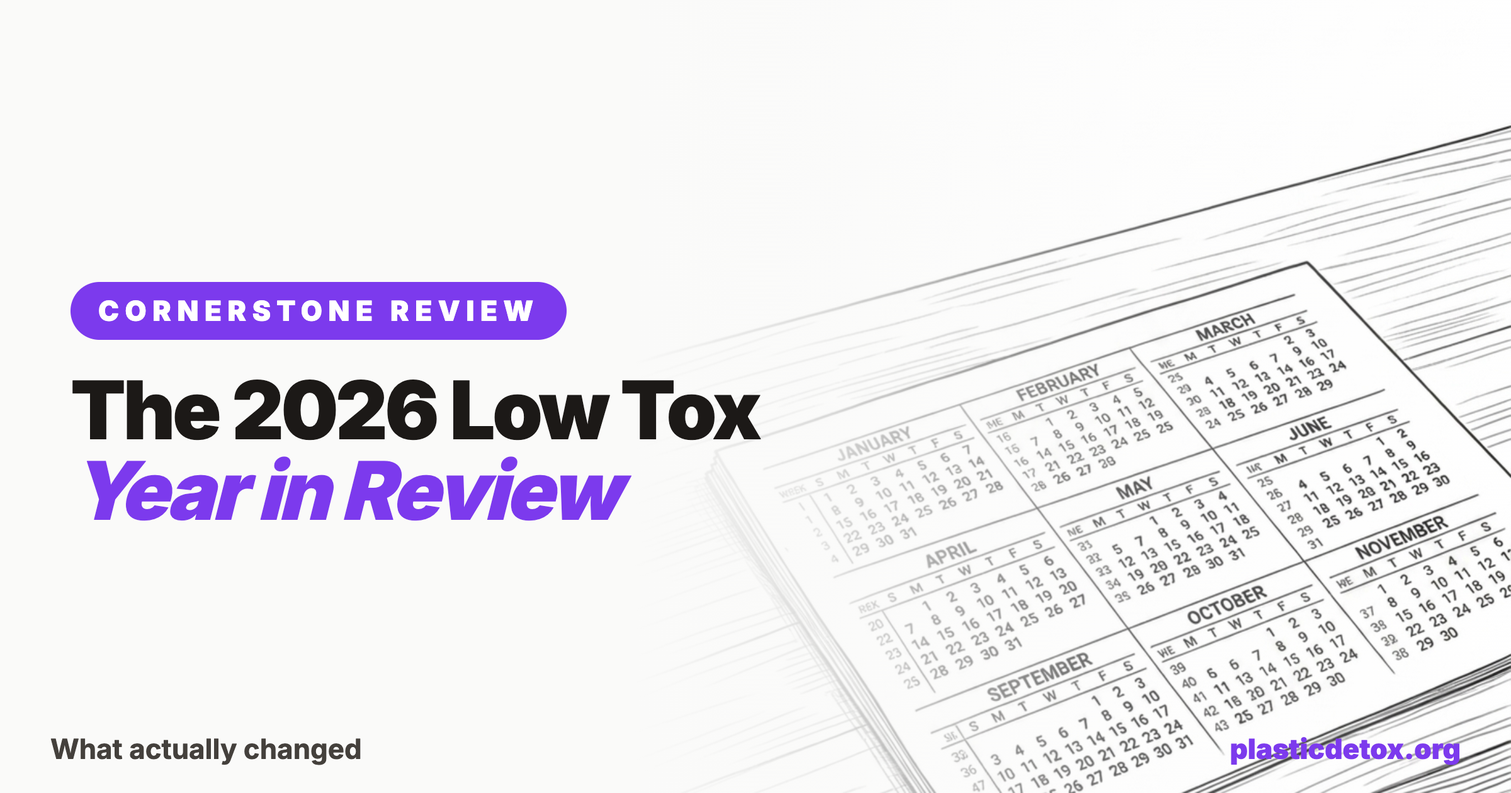
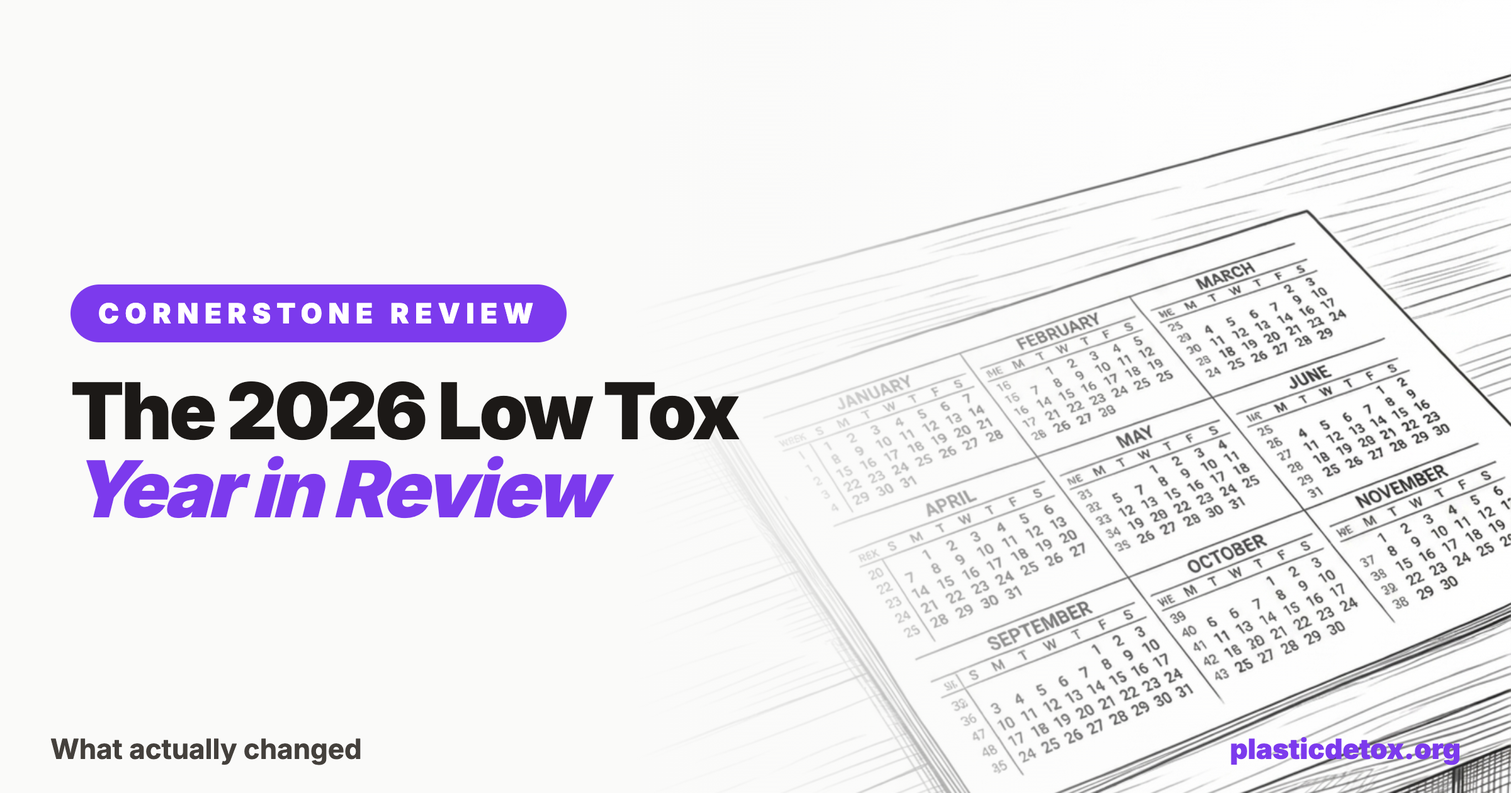
Make all article link previews follow the social-card rule
- Build 7 missing/incorrect 1200x630 social cards (not-all-plastic, closet-101,
  food-pesticides-101, news-and-research, top-100-baby-kids, free-ways, getting-started)
- Repoint og:image/twitter:image off tall pins and square homepage images
- Add missing og:image:width/height to three how-to articles
- Add og:image block to top-100 (had none)
- Normalize year-in-review card to exact 1200x630
- Bump dateModified on edited articles

diff --git a/images/build-social-cards.js b/images/build-social-cards.js
@@ -1,0 +1,64 @@
+const puppeteer = require('puppeteer');
+const fs = require('fs');
+const { execSync } = require('child_process');
+
+const cards = [
+  { slug: '2026-year-in-review', bg: '2026-year-in-review.png',
+    tag: 'Cornerstone Review', l1: 'The 2026 Low Tox', l2: 'Year in Review', stat: 'What actually changed' },
+  { slug: 'free-ways-to-reduce-plastic-exposure', bg: 'free-ways-to-reduce-plastic-exposure.png',
+    tag: 'Free Habits Guide', l1: 'Cut Your Plastic', l2: 'Exposure for Free', stat: 'No spending required' },
+  { slug: 'getting-started-checklist', bg: 'homepage-gettingstarted.png',
+    tag: 'Getting Started', l1: '10 First Plastic', l2: 'Swaps That Matter', stat: 'The getting started checklist' },
+  { slug: 'not-all-plastic-is-the-same', bg: 'not-all-plastic-is-the-same-raw.png',
+    tag: 'Cornerstone Explainer', l1: 'Not All Plastic', l2: 'Is the Same', stat: "What's worth worrying about" },
+  { slug: 'closet-101', bg: 'homepage-closet.png',
+    tag: 'Closet 101', l1: 'Plastic Free', l2: 'Clothing & Laundry', stat: 'The complete guide' },
+  { slug: 'food-pesticides-101', bg: 'homepage-food.png',
+    tag: 'Food & Pesticides', l1: 'The Cleaner', l2: 'Eating Guide', stat: 'What to buy and skip' },
+  { slug: 'news-and-research', bg: 'homepage-myths.png',
+    tag: 'News & Research', l1: 'What the Studies', l2: 'Actually Say', stat: 'The latest microplastic science' },
+  { slug: 'top-100-baby-kids-products-amazon', bg: 'registry.png',
+    tag: 'Baby & Kids', l1: 'Top 100 Baby &', l2: 'Kids Products', stat: 'Ranked and reviewed' },
+];
+
+const html = (c) => `<!DOCTYPE html><html lang="en"><head><meta charset="UTF-8">
+<meta name="robots" content="noindex,nofollow"><title>${c.slug} social card</title>
+<link rel="preconnect" href="https://fonts.googleapis.com">
+<link rel="preconnect" href="https://fonts.gstatic.com" crossorigin>
+<link href="https://fonts.googleapis.com/css2?family=Inter:wght@400;500;600;700;800;900&display=swap" rel="stylesheet">
+<style>
+*{margin:0;padding:0;box-sizing:border-box;}
+body{background:#d6d3d1;display:flex;justify-content:center;padding:2rem;font-family:'Inter',-apple-system,BlinkMacSystemFont,sans-serif;}
+.card{width:1200px;height:630px;position:relative;overflow:hidden;background:#fafaf9;}
+.bg{position:absolute;top:0;right:0;width:58%;height:100%;background-image:url('${c.bg}');background-size:cover;background-position:center;}
+.veil{position:absolute;inset:0;background:linear-gradient(to right,rgba(250,250,249,1) 0%,rgba(250,250,249,1) 42%,rgba(250,250,249,0.85) 55%,rgba(250,250,249,0.35) 75%,rgba(250,250,249,0.10) 100%);}
+.content{position:absolute;top:0;left:0;bottom:0;width:720px;padding:56px 56px 40px;display:flex;flex-direction:column;justify-content:center;z-index:2;}
+.tag{display:inline-block;align-self:flex-start;font-size:22px;font-weight:900;text-transform:uppercase;letter-spacing:0.22em;color:#fff;background:#7c3aed;padding:10px 22px;border-radius:100px;margin-bottom:24px;white-space:nowrap;}
+h1{font-size:62px;font-weight:900;color:#1c1917;line-height:1.0;letter-spacing:-0.035em;}
+h1 .accent{color:#7c3aed;font-style:italic;}
+.footer{position:absolute;bottom:0;left:0;right:0;display:flex;align-items:center;justify-content:space-between;padding:22px 40px;z-index:3;}
+.footer-stat{font-size:22px;font-weight:700;color:#44403c;}
+.footer-url{font-size:22px;font-weight:900;color:#7c3aed;}
+</style></head><body>
+<div class="card">
+<div class="bg"></div><div class="veil"></div>
+<div class="content"><div class="tag">${c.tag}</div><h1>${c.l1}<br><span class="accent">${c.l2}</span></h1></div>
+<div class="footer"><span class="footer-stat">${c.stat}</span><span class="footer-url">plasticdetox.org</span></div>
+</div></body></html>`;
+
+(async () => {
+  const browser = await puppeteer.launch();
+  for (const c of cards) {
+    const htmlPath = `${c.slug}-social.html`;
+    fs.writeFileSync(htmlPath, html(c));
+    const page = await browser.newPage();
+    await page.setViewport({ width: 1264, height: 694, deviceScaleFactor: 2 });
+    await page.goto('file://' + process.cwd() + '/' + htmlPath, { waitUntil: 'networkidle0' });
+    const card = await page.$('.card');
+    await card.screenshot({ path: `${c.slug}-social.png` });
+    await page.close();
+    execSync(`cwebp -q 88 -resize 1200 630 ${c.slug}-social.png -o ${c.slug}-social.webp`);
+    console.log('built', c.slug);
+  }
+  await browser.close();
+})();

diff --git a/articles/not-all-plastic-is-the-same.html b/articles/not-all-plastic-is-the-same.html
@@ -13,7 +13,7 @@
   <meta property="og:title" content="Not All Plastic Is the Same: A Calibrated Guide to What's Actually Worth Worrying About (2026)">
   <meta property="og:description" content="The hierarchy of plastic risk, by resin code and use case. Where the evidence is strongest, where the marketing claims fall apart, and what to swap first.">
   <meta property="og:url" content="https://plasticdetox.org/articles/not-all-plastic-is-the-same.html">
-  <meta property="og:image" content="https://plasticdetox.org/images/not-all-plastic-is-the-same-article-hero.webp">
+  <meta property="og:image" content="https://plasticdetox.org/images/not-all-plastic-is-the-same-social.webp">
   <meta property="og:image:width" content="1200">
   <meta property="og:image:height" content="630">
   <meta property="og:site_name" content="Plastic Detox">
@@ -21,11 +21,11 @@
   <meta name="twitter:card" content="summary_large_image">
   <meta name="twitter:title" content="Not All Plastic Is the Same: A Calibrated Guide to What's Actually Worth Worrying About (2026)">
   <meta name="twitter:description" content="The hierarchy of plastic risk, by resin code and use case. Where the evidence is strongest and what to swap first.">
-  <meta name="twitter:image" content="https://plasticdetox.org/images/not-all-plastic-is-the-same-article-hero.webp">
+  <meta name="twitter:image" content="https://plasticdetox.org/images/not-all-plastic-is-the-same-social.webp">
 
   <meta name="pin:description" content="Not All Plastic Is the Same. The seven resin codes ranked by actual risk, plus the BPA free trap, the phthalate problem, and the swaps that matter most.">
   <meta name="pin:url" content="https://plasticdetox.org/articles/not-all-plastic-is-the-same.html">
-  <meta name="pin:media" content="https://plasticdetox.org/images/not-all-plastic-is-the-same-article-hero.webp">
+  <meta name="pin:media" content="https://plasticdetox.org/images/not-all-plastic-is-the-same-social.webp">
 
   <script type="application/ld+json">
   {
@@ -36,9 +36,9 @@
     "author": { "@type": "Organization", "name": "Plastic Detox Editorial Team", "url": "https://plasticdetox.org/about.html" },
     "publisher": { "@type": "Organization", "name": "Plastic Detox", "url": "https://plasticdetox.org" },
     "datePublished": "2026-05-17",
-    "dateModified": "2026-05-18",
+    "dateModified": "2026-06-06",
     "lastReviewed": "2026-05-18",
-    "image": "https://plasticdetox.org/images/not-all-plastic-is-the-same-article-hero.webp",
+    "image": "https://plasticdetox.org/images/not-all-plastic-is-the-same-social.webp",
     "mainEntityOfPage": "https://plasticdetox.org/articles/not-all-plastic-is-the-same.html"
   }
   </script>

diff --git a/images/free-ways-to-reduce-plastic-exposure-social.html b/images/free-ways-to-reduce-plastic-exposure-social.html
@@ -1,5 +1,5 @@
 <!DOCTYPE html><html lang="en"><head><meta charset="UTF-8">
-<meta name="robots" content="noindex,nofollow"><title>2026-year-in-review social card</title>
+<meta name="robots" content="noindex,nofollow"><title>free-ways-to-reduce-plastic-exposure social card</title>
 <link rel="preconnect" href="https://fonts.googleapis.com">
 <link rel="preconnect" href="https://fonts.gstatic.com" crossorigin>
 <link href="https://fonts.googleapis.com/css2?family=Inter:wght@400;500;600;700;800;900&display=swap" rel="stylesheet">
@@ -7,7 +7,7 @@
 *{margin:0;padding:0;box-sizing:border-box;}
 body{background:#d6d3d1;display:flex;justify-content:center;padding:2rem;font-family:'Inter',-apple-system,BlinkMacSystemFont,sans-serif;}
 .card{width:1200px;height:630px;position:relative;overflow:hidden;background:#fafaf9;}
-.bg{position:absolute;top:0;right:0;width:58%;height:100%;background-image:url('2026-year-in-review.png');background-size:cover;background-position:center;}
+.bg{position:absolute;top:0;right:0;width:58%;height:100%;background-image:url('free-ways-to-reduce-plastic-exposure.png');background-size:cover;background-position:center;}
 .veil{position:absolute;inset:0;background:linear-gradient(to right,rgba(250,250,249,1) 0%,rgba(250,250,249,1) 42%,rgba(250,250,249,0.85) 55%,rgba(250,250,249,0.35) 75%,rgba(250,250,249,0.10) 100%);}
 .content{position:absolute;top:0;left:0;bottom:0;width:720px;padding:56px 56px 40px;display:flex;flex-direction:column;justify-content:center;z-index:2;}
 .tag{display:inline-block;align-self:flex-start;font-size:22px;font-weight:900;text-transform:uppercase;letter-spacing:0.22em;color:#fff;background:#7c3aed;padding:10px 22px;border-radius:100px;margin-bottom:24px;white-space:nowrap;}
@@ -19,6 +19,6 @@ h1 .accent{color:#7c3aed;font-style:italic;}
 </style></head><body>
 <div class="card">
 <div class="bg"></div><div class="veil"></div>
-<div class="content"><div class="tag">Cornerstone Review</div><h1>The 2026 Low Tox<br><span class="accent">Year in Review</span></h1></div>
-<div class="footer"><span class="footer-stat">What actually changed</span><span class="footer-url">plasticdetox.org</span></div>
+<div class="content"><div class="tag">Free Habits Guide</div><h1>Cut Your Plastic<br><span class="accent">Exposure for Free</span></h1></div>
+<div class="footer"><span class="footer-stat">No spending required</span><span class="footer-url">plasticdetox.org</span></div>
 </div></body></html>

diff --git a/images/not-all-plastic-is-the-same-social.html b/images/not-all-plastic-is-the-same-social.html
@@ -1,5 +1,5 @@
 <!DOCTYPE html><html lang="en"><head><meta charset="UTF-8">
-<meta name="robots" content="noindex,nofollow"><title>2026-year-in-review social card</title>
+<meta name="robots" content="noindex,nofollow"><title>not-all-plastic-is-the-same social card</title>
 <link rel="preconnect" href="https://fonts.googleapis.com">
 <link rel="preconnect" href="https://fonts.gstatic.com" crossorigin>
 <link href="https://fonts.googleapis.com/css2?family=Inter:wght@400;500;600;700;800;900&display=swap" rel="stylesheet">
@@ -7,7 +7,7 @@
 *{margin:0;padding:0;box-sizing:border-box;}
 body{background:#d6d3d1;display:flex;justify-content:center;padding:2rem;font-family:'Inter',-apple-system,BlinkMacSystemFont,sans-serif;}
 .card{width:1200px;height:630px;position:relative;overflow:hidden;background:#fafaf9;}
-.bg{position:absolute;top:0;right:0;width:58%;height:100%;background-image:url('2026-year-in-review.png');background-size:cover;background-position:center;}
+.bg{position:absolute;top:0;right:0;width:58%;height:100%;background-image:url('not-all-plastic-is-the-same-raw.png');background-size:cover;background-position:center;}
 .veil{position:absolute;inset:0;background:linear-gradient(to right,rgba(250,250,249,1) 0%,rgba(250,250,249,1) 42%,rgba(250,250,249,0.85) 55%,rgba(250,250,249,0.35) 75%,rgba(250,250,249,0.10) 100%);}
 .content{position:absolute;top:0;left:0;bottom:0;width:720px;padding:56px 56px 40px;display:flex;flex-direction:column;justify-content:center;z-index:2;}
 .tag{display:inline-block;align-self:flex-start;font-size:22px;font-weight:900;text-transform:uppercase;letter-spacing:0.22em;color:#fff;background:#7c3aed;padding:10px 22px;border-radius:100px;margin-bottom:24px;white-space:nowrap;}
@@ -19,6 +19,6 @@ h1 .accent{color:#7c3aed;font-style:italic;}
 </style></head><body>
 <div class="card">
 <div class="bg"></div><div class="veil"></div>
-<div class="content"><div class="tag">Cornerstone Review</div><h1>The 2026 Low Tox<br><span class="accent">Year in Review</span></h1></div>
-<div class="footer"><span class="footer-stat">What actually changed</span><span class="footer-url">plasticdetox.org</span></div>
+<div class="content"><div class="tag">Cornerstone Explainer</div><h1>Not All Plastic<br><span class="accent">Is the Same</span></h1></div>
+<div class="footer"><span class="footer-stat">What's worth worrying about</span><span class="footer-url">plasticdetox.org</span></div>
 </div></body></html>

diff --git a/images/getting-started-checklist-social.html b/images/getting-started-checklist-social.html
@@ -1,5 +1,5 @@
 <!DOCTYPE html><html lang="en"><head><meta charset="UTF-8">
-<meta name="robots" content="noindex,nofollow"><title>2026-year-in-review social card</title>
+<meta name="robots" content="noindex,nofollow"><title>getting-started-checklist social card</title>
 <link rel="preconnect" href="https://fonts.googleapis.com">
 <link rel="preconnect" href="https://fonts.gstatic.com" crossorigin>
 <link href="https://fonts.googleapis.com/css2?family=Inter:wght@400;500;600;700;800;900&display=swap" rel="stylesheet">
@@ -7,7 +7,7 @@
 *{margin:0;padding:0;box-sizing:border-box;}
 body{background:#d6d3d1;display:flex;justify-content:center;padding:2rem;font-family:'Inter',-apple-system,BlinkMacSystemFont,sans-serif;}
 .card{width:1200px;height:630px;position:relative;overflow:hidden;background:#fafaf9;}
-.bg{position:absolute;top:0;right:0;width:58%;height:100%;background-image:url('2026-year-in-review.png');background-size:cover;background-position:center;}
+.bg{position:absolute;top:0;right:0;width:58%;height:100%;background-image:url('homepage-gettingstarted.png');background-size:cover;background-position:center;}
 .veil{position:absolute;inset:0;background:linear-gradient(to right,rgba(250,250,249,1) 0%,rgba(250,250,249,1) 42%,rgba(250,250,249,0.85) 55%,rgba(250,250,249,0.35) 75%,rgba(250,250,249,0.10) 100%);}
 .content{position:absolute;top:0;left:0;bottom:0;width:720px;padding:56px 56px 40px;display:flex;flex-direction:column;justify-content:center;z-index:2;}
 .tag{display:inline-block;align-self:flex-start;font-size:22px;font-weight:900;text-transform:uppercase;letter-spacing:0.22em;color:#fff;background:#7c3aed;padding:10px 22px;border-radius:100px;margin-bottom:24px;white-space:nowrap;}
@@ -19,6 +19,6 @@ h1 .accent{color:#7c3aed;font-style:italic;}
 </style></head><body>
 <div class="card">
 <div class="bg"></div><div class="veil"></div>
-<div class="content"><div class="tag">Cornerstone Review</div><h1>The 2026 Low Tox<br><span class="accent">Year in Review</span></h1></div>
-<div class="footer"><span class="footer-stat">What actually changed</span><span class="footer-url">plasticdetox.org</span></div>
+<div class="content"><div class="tag">Getting Started</div><h1>10 First Plastic<br><span class="accent">Swaps That Matter</span></h1></div>
+<div class="footer"><span class="footer-stat">The getting started checklist</span><span class="footer-url">plasticdetox.org</span></div>
 </div></body></html>

diff --git a/images/news-and-research-social.html b/images/news-and-research-social.html
@@ -1,5 +1,5 @@
 <!DOCTYPE html><html lang="en"><head><meta charset="UTF-8">
-<meta name="robots" content="noindex,nofollow"><title>2026-year-in-review social card</title>
+<meta name="robots" content="noindex,nofollow"><title>news-and-research social card</title>
 <link rel="preconnect" href="https://fonts.googleapis.com">
 <link rel="preconnect" href="https://fonts.gstatic.com" crossorigin>
 <link href="https://fonts.googleapis.com/css2?family=Inter:wght@400;500;600;700;800;900&display=swap" rel="stylesheet">
@@ -7,7 +7,7 @@
 *{margin:0;padding:0;box-sizing:border-box;}
 body{background:#d6d3d1;display:flex;justify-content:center;padding:2rem;font-family:'Inter',-apple-system,BlinkMacSystemFont,sans-serif;}
 .card{width:1200px;height:630px;position:relative;overflow:hidden;background:#fafaf9;}
-.bg{position:absolute;top:0;right:0;width:58%;height:100%;background-image:url('2026-year-in-review.png');background-size:cover;background-position:center;}
+.bg{position:absolute;top:0;right:0;width:58%;height:100%;background-image:url('homepage-myths.png');background-size:cover;background-position:center;}
 .veil{position:absolute;inset:0;background:linear-gradient(to right,rgba(250,250,249,1) 0%,rgba(250,250,249,1) 42%,rgba(250,250,249,0.85) 55%,rgba(250,250,249,0.35) 75%,rgba(250,250,249,0.10) 100%);}
 .content{position:absolute;top:0;left:0;bottom:0;width:720px;padding:56px 56px 40px;display:flex;flex-direction:column;justify-content:center;z-index:2;}
 .tag{display:inline-block;align-self:flex-start;font-size:22px;font-weight:900;text-transform:uppercase;letter-spacing:0.22em;color:#fff;background:#7c3aed;padding:10px 22px;border-radius:100px;margin-bottom:24px;white-space:nowrap;}
@@ -19,6 +19,6 @@ h1 .accent{color:#7c3aed;font-style:italic;}
 </style></head><body>
 <div class="card">
 <div class="bg"></div><div class="veil"></div>
-<div class="content"><div class="tag">Cornerstone Review</div><h1>The 2026 Low Tox<br><span class="accent">Year in Review</span></h1></div>
-<div class="footer"><span class="footer-stat">What actually changed</span><span class="footer-url">plasticdetox.org</span></div>
+<div class="content"><div class="tag">News & Research</div><h1>What the Studies<br><span class="accent">Actually Say</span></h1></div>
+<div class="footer"><span class="footer-stat">The latest microplastic science</span><span class="footer-url">plasticdetox.org</span></div>
 </div></body></html>

diff --git a/images/top-100-baby-kids-products-amazon-social.html b/images/top-100-baby-kids-products-amazon-social.html
@@ -1,5 +1,5 @@
 <!DOCTYPE html><html lang="en"><head><meta charset="UTF-8">
-<meta name="robots" content="noindex,nofollow"><title>2026-year-in-review social card</title>
+<meta name="robots" content="noindex,nofollow"><title>top-100-baby-kids-products-amazon social card</title>
 <link rel="preconnect" href="https://fonts.googleapis.com">
 <link rel="preconnect" href="https://fonts.gstatic.com" crossorigin>
 <link href="https://fonts.googleapis.com/css2?family=Inter:wght@400;500;600;700;800;900&display=swap" rel="stylesheet">
@@ -7,7 +7,7 @@
 *{margin:0;padding:0;box-sizing:border-box;}
 body{background:#d6d3d1;display:flex;justify-content:center;padding:2rem;font-family:'Inter',-apple-system,BlinkMacSystemFont,sans-serif;}
 .card{width:1200px;height:630px;position:relative;overflow:hidden;background:#fafaf9;}
-.bg{position:absolute;top:0;right:0;width:58%;height:100%;background-image:url('2026-year-in-review.png');background-size:cover;background-position:center;}
+.bg{position:absolute;top:0;right:0;width:58%;height:100%;background-image:url('registry.png');background-size:cover;background-position:center;}
 .veil{position:absolute;inset:0;background:linear-gradient(to right,rgba(250,250,249,1) 0%,rgba(250,250,249,1) 42%,rgba(250,250,249,0.85) 55%,rgba(250,250,249,0.35) 75%,rgba(250,250,249,0.10) 100%);}
 .content{position:absolute;top:0;left:0;bottom:0;width:720px;padding:56px 56px 40px;display:flex;flex-direction:column;justify-content:center;z-index:2;}
 .tag{display:inline-block;align-self:flex-start;font-size:22px;font-weight:900;text-transform:uppercase;letter-spacing:0.22em;color:#fff;background:#7c3aed;padding:10px 22px;border-radius:100px;margin-bottom:24px;white-space:nowrap;}
@@ -19,6 +19,6 @@ h1 .accent{color:#7c3aed;font-style:italic;}
 </style></head><body>
 <div class="card">
 <div class="bg"></div><div class="veil"></div>
-<div class="content"><div class="tag">Cornerstone Review</div><h1>The 2026 Low Tox<br><span class="accent">Year in Review</span></h1></div>
-<div class="footer"><span class="footer-stat">What actually changed</span><span class="footer-url">plasticdetox.org</span></div>
+<div class="content"><div class="tag">Baby & Kids</div><h1>Top 100 Baby &<br><span class="accent">Kids Products</span></h1></div>
+<div class="footer"><span class="footer-stat">Ranked and reviewed</span><span class="footer-url">plasticdetox.org</span></div>
 </div></body></html>

diff --git a/images/food-pesticides-101-social.html b/images/food-pesticides-101-social.html
@@ -1,5 +1,5 @@
 <!DOCTYPE html><html lang="en"><head><meta charset="UTF-8">
-<meta name="robots" content="noindex,nofollow"><title>2026-year-in-review social card</title>
+<meta name="robots" content="noindex,nofollow"><title>food-pesticides-101 social card</title>
 <link rel="preconnect" href="https://fonts.googleapis.com">
 <link rel="preconnect" href="https://fonts.gstatic.com" crossorigin>
 <link href="https://fonts.googleapis.com/css2?family=Inter:wght@400;500;600;700;800;900&display=swap" rel="stylesheet">
@@ -7,7 +7,7 @@
 *{margin:0;padding:0;box-sizing:border-box;}
 body{background:#d6d3d1;display:flex;justify-content:center;padding:2rem;font-family:'Inter',-apple-system,BlinkMacSystemFont,sans-serif;}
 .card{width:1200px;height:630px;position:relative;overflow:hidden;background:#fafaf9;}
-.bg{position:absolute;top:0;right:0;width:58%;height:100%;background-image:url('2026-year-in-review.png');background-size:cover;background-position:center;}
+.bg{position:absolute;top:0;right:0;width:58%;height:100%;background-image:url('homepage-food.png');background-size:cover;background-position:center;}
 .veil{position:absolute;inset:0;background:linear-gradient(to right,rgba(250,250,249,1) 0%,rgba(250,250,249,1) 42%,rgba(250,250,249,0.85) 55%,rgba(250,250,249,0.35) 75%,rgba(250,250,249,0.10) 100%);}
 .content{position:absolute;top:0;left:0;bottom:0;width:720px;padding:56px 56px 40px;display:flex;flex-direction:column;justify-content:center;z-index:2;}
 .tag{display:inline-block;align-self:flex-start;font-size:22px;font-weight:900;text-transform:uppercase;letter-spacing:0.22em;color:#fff;background:#7c3aed;padding:10px 22px;border-radius:100px;margin-bottom:24px;white-space:nowrap;}
@@ -19,6 +19,6 @@ h1 .accent{color:#7c3aed;font-style:italic;}
 </style></head><body>
 <div class="card">
 <div class="bg"></div><div class="veil"></div>
-<div class="content"><div class="tag">Cornerstone Review</div><h1>The 2026 Low Tox<br><span class="accent">Year in Review</span></h1></div>
-<div class="footer"><span class="footer-stat">What actually changed</span><span class="footer-url">plasticdetox.org</span></div>
+<div class="content"><div class="tag">Food & Pesticides</div><h1>The Cleaner<br><span class="accent">Eating Guide</span></h1></div>
+<div class="footer"><span class="footer-stat">What to buy and skip</span><span class="footer-url">plasticdetox.org</span></div>
 </div></body></html>

diff --git a/images/closet-101-social.html b/images/closet-101-social.html
@@ -1,5 +1,5 @@
 <!DOCTYPE html><html lang="en"><head><meta charset="UTF-8">
-<meta name="robots" content="noindex,nofollow"><title>2026-year-in-review social card</title>
+<meta name="robots" content="noindex,nofollow"><title>closet-101 social card</title>
 <link rel="preconnect" href="https://fonts.googleapis.com">
 <link rel="preconnect" href="https://fonts.gstatic.com" crossorigin>
 <link href="https://fonts.googleapis.com/css2?family=Inter:wght@400;500;600;700;800;900&display=swap" rel="stylesheet">
@@ -7,7 +7,7 @@
 *{margin:0;padding:0;box-sizing:border-box;}
 body{background:#d6d3d1;display:flex;justify-content:center;padding:2rem;font-family:'Inter',-apple-system,BlinkMacSystemFont,sans-serif;}
 .card{width:1200px;height:630px;position:relative;overflow:hidden;background:#fafaf9;}
-.bg{position:absolute;top:0;right:0;width:58%;height:100%;background-image:url('2026-year-in-review.png');background-size:cover;background-position:center;}
+.bg{position:absolute;top:0;right:0;width:58%;height:100%;background-image:url('homepage-closet.png');background-size:cover;background-position:center;}
 .veil{position:absolute;inset:0;background:linear-gradient(to right,rgba(250,250,249,1) 0%,rgba(250,250,249,1) 42%,rgba(250,250,249,0.85) 55%,rgba(250,250,249,0.35) 75%,rgba(250,250,249,0.10) 100%);}
 .content{position:absolute;top:0;left:0;bottom:0;width:720px;padding:56px 56px 40px;display:flex;flex-direction:column;justify-content:center;z-index:2;}
 .tag{display:inline-block;align-self:flex-start;font-size:22px;font-weight:900;text-transform:uppercase;letter-spacing:0.22em;color:#fff;background:#7c3aed;padding:10px 22px;border-radius:100px;margin-bottom:24px;white-space:nowrap;}
@@ -19,6 +19,6 @@ h1 .accent{color:#7c3aed;font-style:italic;}
 </style></head><body>
 <div class="card">
 <div class="bg"></div><div class="veil"></div>
-<div class="content"><div class="tag">Cornerstone Review</div><h1>The 2026 Low Tox<br><span class="accent">Year in Review</span></h1></div>
-<div class="footer"><span class="footer-stat">What actually changed</span><span class="footer-url">plasticdetox.org</span></div>
+<div class="content"><div class="tag">Closet 101</div><h1>Plastic Free<br><span class="accent">Clothing & Laundry</span></h1></div>
+<div class="footer"><span class="footer-stat">The complete guide</span><span class="footer-url">plasticdetox.org</span></div>
 </div></body></html>

diff --git a/articles/top-100-baby-kids-products-amazon.html b/articles/top-100-baby-kids-products-amazon.html
@@ -14,8 +14,15 @@
   <meta property="og:description" content="The 100 most popular baby and kid products on Amazon, ranked by materials, ingredients, recalls, and independent lab testing.">
   <meta property="og:url" content="https://plasticdetox.org/articles/top-100-baby-kids-products-amazon.html">
   <meta property="og:site_name" content="Plastic Detox">
+  <meta property="og:image" content="https://plasticdetox.org/images/top-100-baby-kids-products-amazon-social.webp">
+  <meta property="og:image:width" content="1200">
+  <meta property="og:image:height" content="630">
+  <meta property="og:image:alt" content="Top 100 Baby and Kids Products on Amazon, ranked and reviewed, with a pencil sketch of a nursery">
 
   <meta name="twitter:card" content="summary_large_image">
+  <meta name="twitter:title" content="Top 100 Baby & Kids Products on Amazon: Ranked & Reviewed">
+  <meta name="twitter:description" content="The 100 most popular baby and kid products on Amazon, ranked by materials, ingredients, recalls, and independent lab testing.">
+  <meta name="twitter:image" content="https://plasticdetox.org/images/top-100-baby-kids-products-amazon-social.webp">
 
   <script type="application/ld+json">
   {
@@ -35,7 +42,7 @@
         "description": "The 100 most popular baby and kid products on Amazon, ranked Skip, Use Carefully, or Good Choice based on materials, ingredients, recalls, and independent lab testing.",
         "url": "https://plasticdetox.org/articles/top-100-baby-kids-products-amazon.html",
         "datePublished": "2026-05-29",
-        "dateModified": "2026-06-01",
+        "dateModified": "2026-06-06",
         "lastReviewed": "2026-06-01",
         "inLanguage": "en",
         "author": {"@type": "Organization", "name": "Plastic Detox Editorial Team", "url": "https://plasticdetox.org/about.html"},

diff --git a/articles/news-and-research.html b/articles/news-and-research.html
@@ -14,10 +14,12 @@
   <meta property="og:description" content="A running roundup of investigations, cornerstone explainers, and myth busting on microplastics and the wellness industry.">
   <meta property="og:url" content="https://plasticdetox.org/articles/news-and-research.html">
   <meta property="og:site_name" content="Plastic Detox">
-  <meta property="og:image" content="https://plasticdetox.org/images/homepage-myths.webp">
+  <meta property="og:image" content="https://plasticdetox.org/images/news-and-research-social.webp">
+  <meta property="og:image:width" content="1200">
+  <meta property="og:image:height" content="630">
 
   <meta name="twitter:card" content="summary_large_image">
-  <meta name="twitter:image" content="https://plasticdetox.org/images/homepage-myths.webp">
+  <meta name="twitter:image" content="https://plasticdetox.org/images/news-and-research-social.webp">
 
   <script type="application/ld+json">
   {
@@ -37,7 +39,7 @@
         "description": "A running roundup of investigations, cornerstone explainers, and myth busting on microplastics, hormone disruptors, and the wellness industry. Drawn from peer reviewed studies and regulatory filings.",
         "url": "https://plasticdetox.org/articles/news-and-research.html",
         "datePublished": "2026-05-25",
-        "dateModified": "2026-05-25",
+        "dateModified": "2026-06-06",
         "lastReviewed": "2026-05-25",
         "inLanguage": "en",
         "author": {"@type": "Organization", "name": "Plastic Detox Editorial Team", "url": "https://plasticdetox.org/about.html"},

diff --git a/articles/food-pesticides-101.html b/articles/food-pesticides-101.html
@@ -15,12 +15,12 @@
   <meta property="og:url" content="https://plasticdetox.org/articles/food-pesticides-101.html">
   <meta property="og:site_name" content="Plastic Detox">
 
-  <meta property="og:image" content="https://plasticdetox.org/images/homepage-food.webp">
+  <meta property="og:image" content="https://plasticdetox.org/images/food-pesticides-101-social.webp">
   <meta property="og:image:width" content="1200">
   <meta property="og:image:height" content="630">
 
   <meta name="twitter:card" content="summary_large_image">
-  <meta name="twitter:image" content="https://plasticdetox.org/images/homepage-food.webp">
+  <meta name="twitter:image" content="https://plasticdetox.org/images/food-pesticides-101-social.webp">
 
   <script type="application/ld+json">
   {
@@ -40,7 +40,7 @@
         "description": "A complete guide to cleaner eating. Glyphosate residue, grocery packaging, tea bag microplastics, plastic free coffee, clean supplements, and the food swaps that actually matter.",
         "url": "https://plasticdetox.org/articles/food-pesticides-101.html",
         "datePublished": "2026-05-25",
-        "dateModified": "2026-05-25",
+        "dateModified": "2026-06-06",
         "lastReviewed": "2026-05-25",
         "inLanguage": "en",
         "author": {"@type": "Organization", "name": "Plastic Detox Editorial Team", "url": "https://plasticdetox.org/about.html"},
